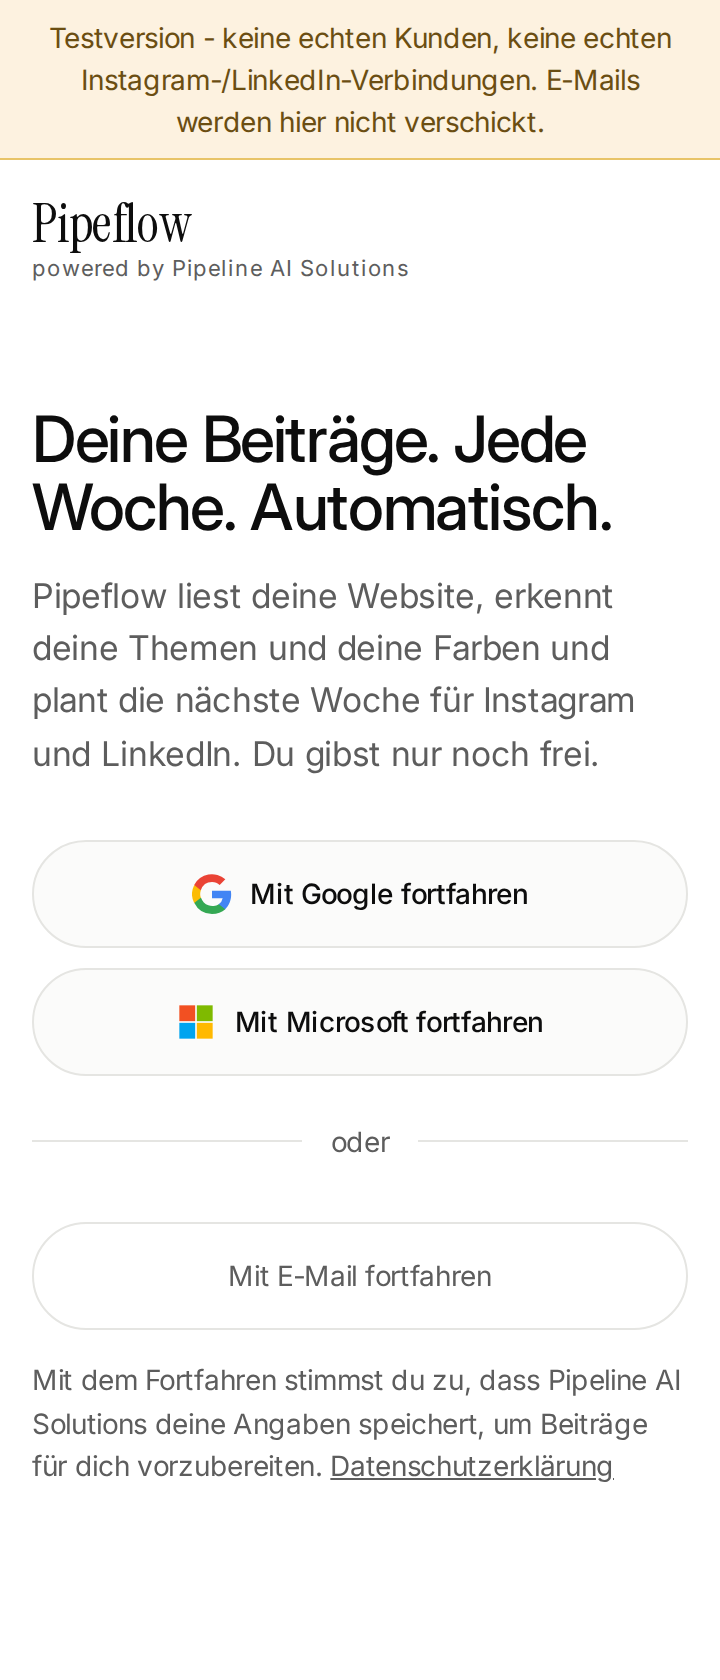
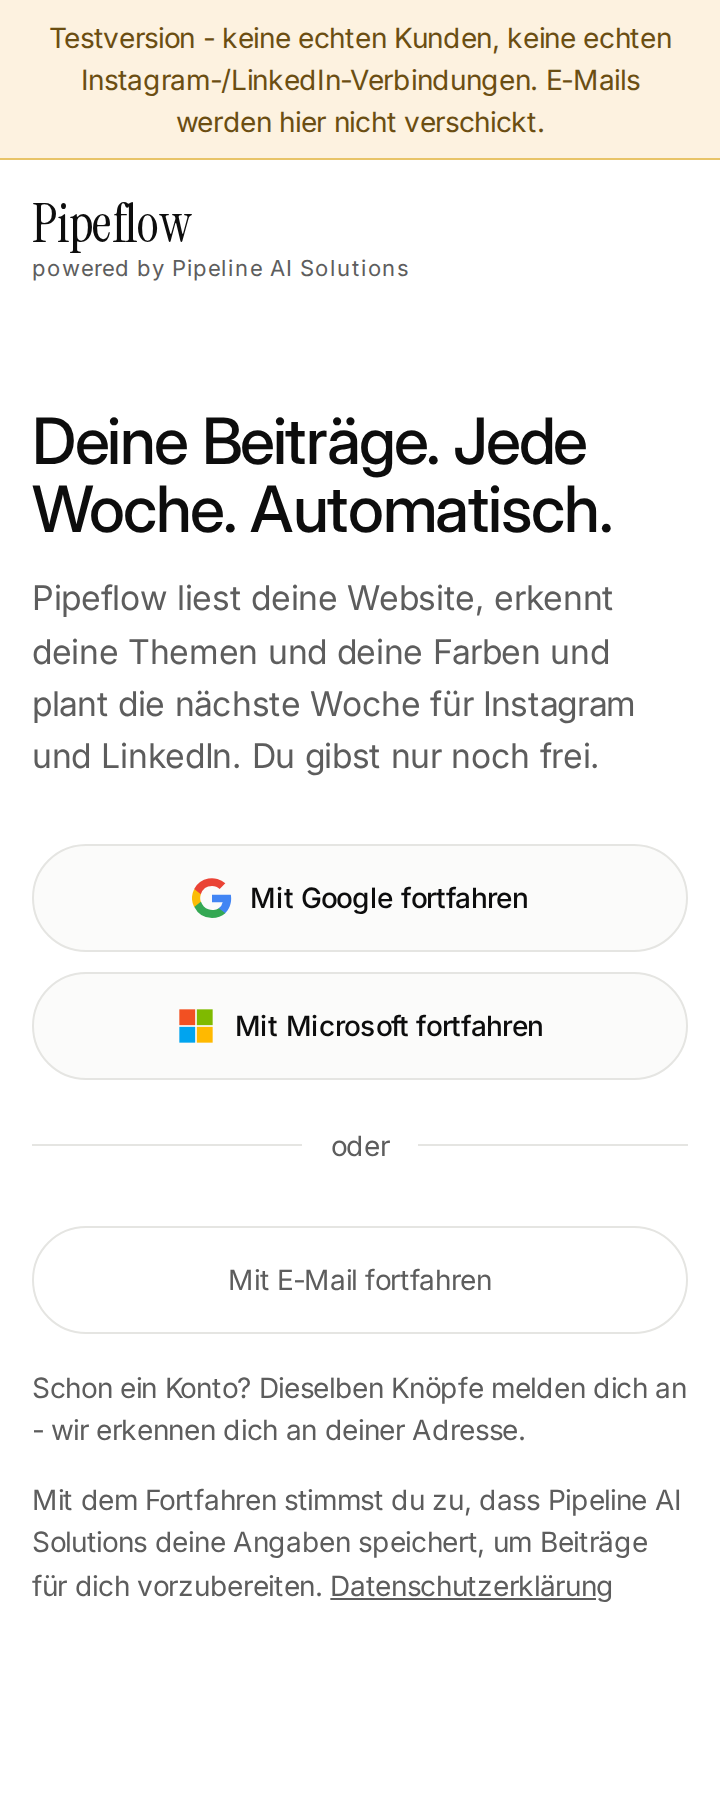
Anmeldebildschirm: ein Satz fuer Wiederkehrende
"Schon ein Konto? Dieselben Knoepfe melden dich an" statt eines zweiten
Einstiegs - der Auftrag will ausdruecklich keinen sichtbaren Unterschied
zwischen Registrieren und Anmelden.

diff --git a/public/panel/start/start.js b/public/panel/start/start.js
@@ -196,6 +196,10 @@
                unter dem Trenner und die ruhigere Gestaltung - nicht eine andere Breite. -->
           <button type="button" class="auth-btn mail-weg" data-go="email">Mit E-Mail fortfahren</button>
         </div>
+        <!-- Wiederkehrende brauchen keinen eigenen Weg, nur die Gewissheit, dass derselbe Knopf
+             auch anmeldet (Auftrag: kein sichtbarer Unterschied zwischen Registrieren und
+             Anmelden). Deshalb ein Satz statt eines zweiten Einstiegs. -->
+        <p class="auth-schon">Schon ein Konto? Dieselben Knöpfe melden dich an - wir erkennen dich an deiner Adresse.</p>
         <p class="hint">Mit dem Fortfahren stimmst du zu, dass Pipeline AI Solutions deine Angaben speichert, um Beiträge für dich vorzubereiten. <a href="${esc(MOUNT || "/panel")}/datenschutz" target="_blank" rel="noopener">Datenschutzerklärung</a></p>
       </section>`;
   }

diff --git a/public/panel/start/start.css b/public/panel/start/start.css
@@ -200,6 +200,7 @@ button { font: inherit; letter-spacing: inherit; color: inherit; }
    der Sekundaerfarbe - sekundaer wird ueber Gestaltung gesagt, nicht ueber eine andere Breite. */
 .auth-btn.mail-weg { background: transparent; color: var(--text-2); font-weight: 400; }
 .auth-btn.mail-weg:hover { background: var(--wash); color: var(--text); border-color: var(--text-2); }
+.auth-schon { margin-top: 16px; font-size: var(--t-small); color: var(--text-2); line-height: 1.5; }
 .auth-eintrag { display: grid; gap: 6px; }
 .auth-notiz { font-size: var(--t-small); color: var(--text-2); padding: 0 4px; line-height: 1.45; }
 .auth-btn[disabled] { cursor: default; }
